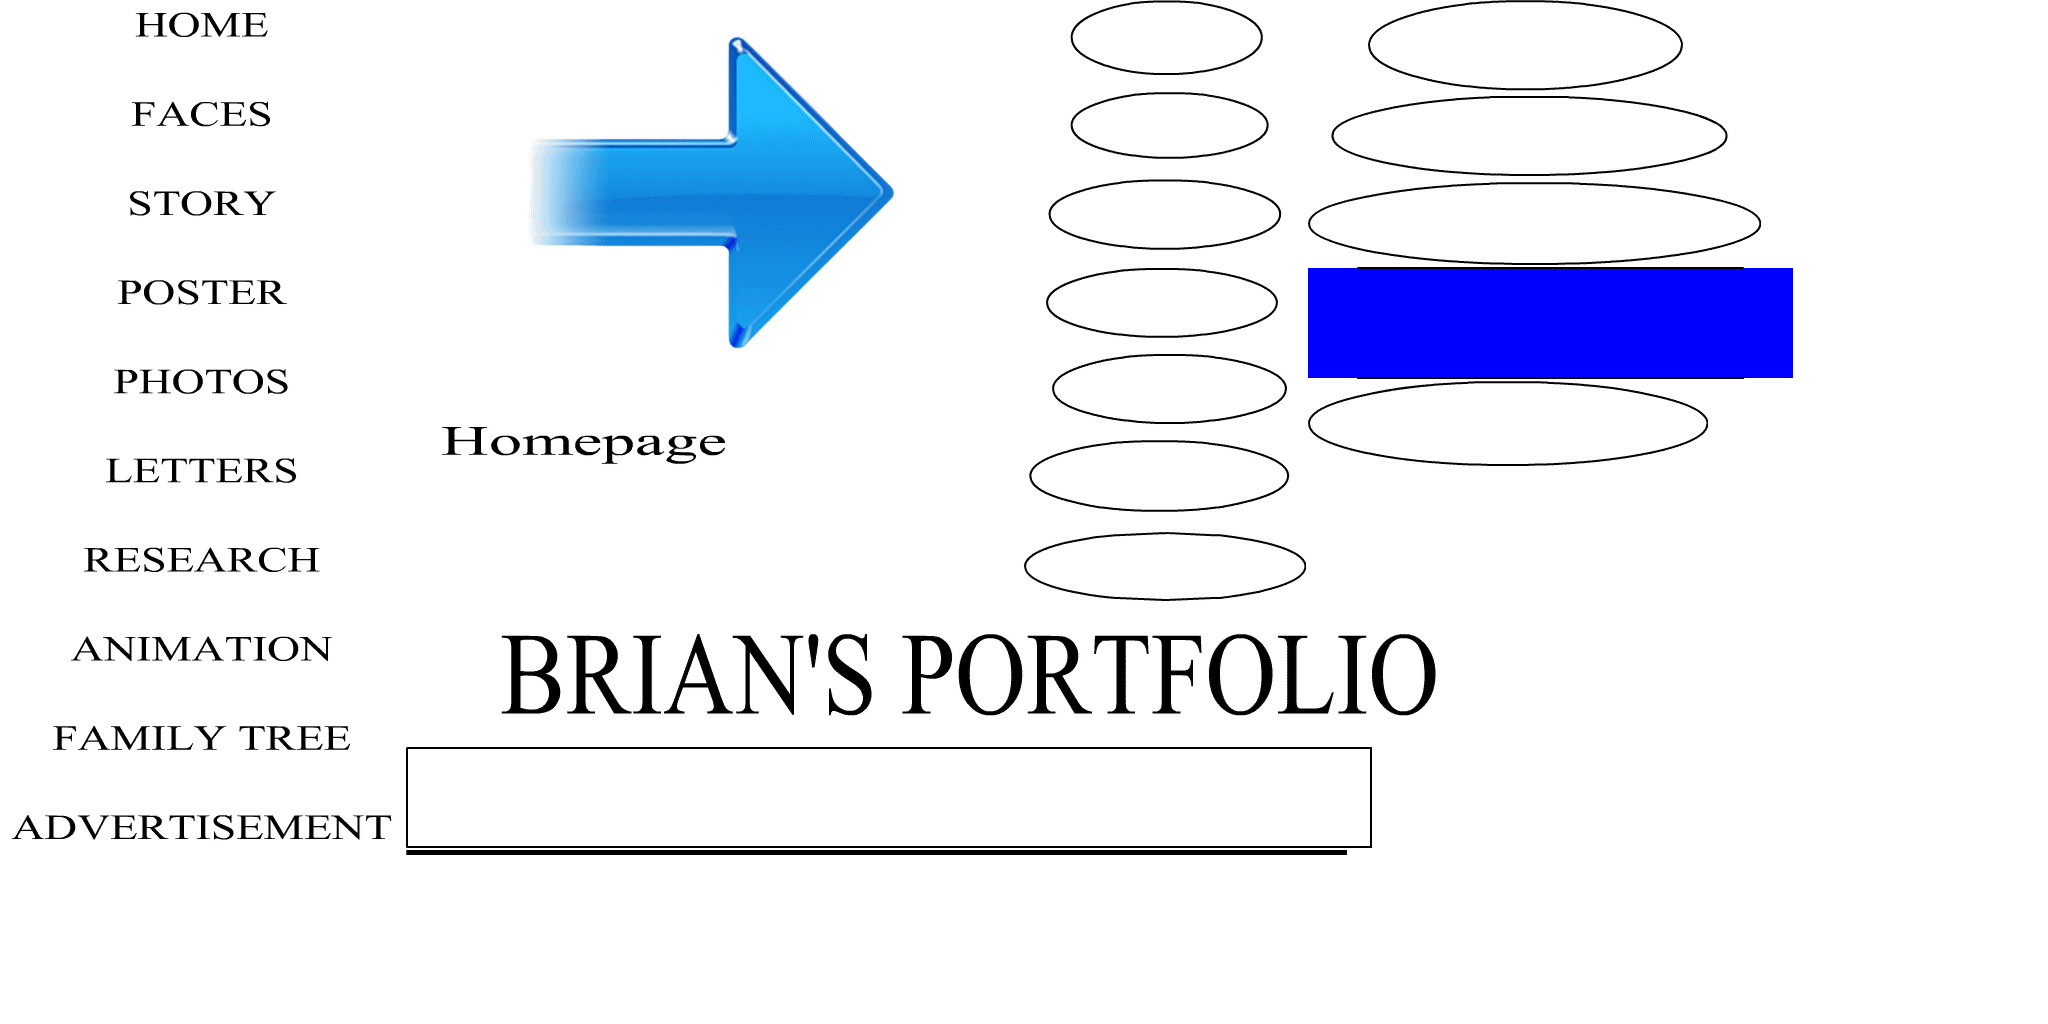
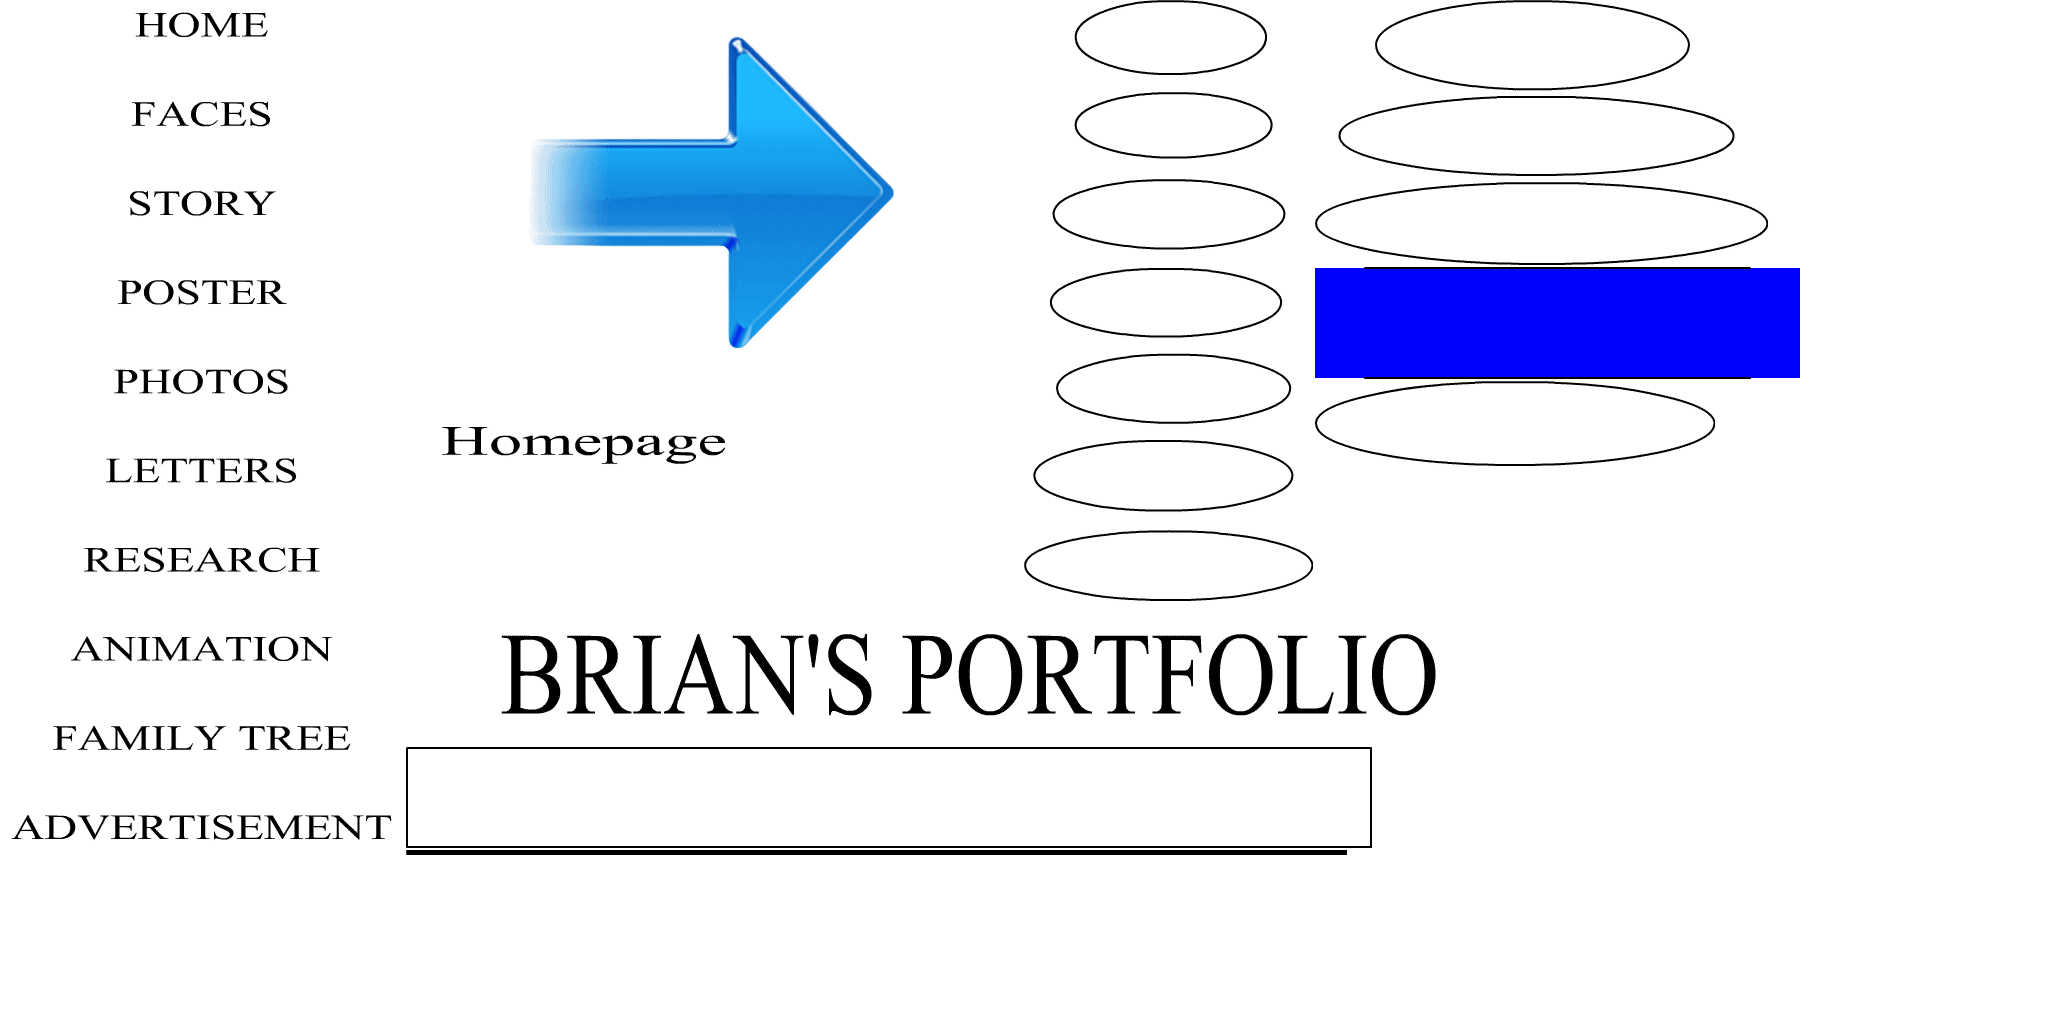
'C'

diff --git a/gd_portfolio/Controller.js b/gd_portfolio/Controller.js
@@ -4,7 +4,7 @@ var p; // shortcut to reference prototypes
 var lib={};var ss={};var img={};
 lib.ssMetadata = [
 		{name:"Controller_atlas_", frames: [[0,0,1920,1200]]},
-		{name:"Controller_atlas_2", frames: [[1308,267,485,112],[406,747,966,101],[406,603,1128,142],[406,850,941,5],[1024,0,282,601],[1308,381,400,85],[406,407,356,68],[0,0,404,852],[1308,0,453,265],[406,0,616,405]]}
+		{name:"Controller_atlas_2", frames: [[1315,267,485,112],[406,747,966,101],[406,603,1128,142],[406,850,941,5],[1024,0,289,601],[1315,381,400,85],[406,407,356,68],[0,0,404,852],[1315,0,453,265],[406,0,616,405]]}
 ];
 
 
@@ -325,7 +325,7 @@ p.nominalBounds = new cjs.Rectangle(-22,-0.5,264.5,56);
 
 	// txt_btns_bg
 	this.instance_4 = new lib.CachedBmp_5();
-	this.instance_4.setTransform(164.25,204.3,0.5,0.5);
+	this.instance_4.setTransform(162.3,204.3,0.5,0.5);
 
 	this.timeline.addTween(cjs.Tween.get(this.instance_4).wait(1));
 
@@ -363,11 +363,11 @@ lib.properties = {
 	color: "#FFFFFF",
 	opacity: 1.00,
 	manifest: [
-		{src:"images/Controller_atlas_.png?1588635144121", id:"Controller_atlas_"},
-		{src:"images/Controller_atlas_2.png?1588635144121", id:"Controller_atlas_2"},
-		{src:"https://code.jquery.com/jquery-3.4.1.min.js?1588635144149", id:"lib/jquery-3.4.1.min.js"},
-		{src:"components/sdk/anwidget.js?1588635144149", id:"sdk/anwidget.js"},
-		{src:"components/video/src/video.js?1588635144149", id:"an.Video"}
+		{src:"images/Controller_atlas_.png?1588636194617", id:"Controller_atlas_"},
+		{src:"images/Controller_atlas_2.png?1588636194617", id:"Controller_atlas_2"},
+		{src:"https://code.jquery.com/jquery-3.4.1.min.js?1588636194634", id:"lib/jquery-3.4.1.min.js"},
+		{src:"components/sdk/anwidget.js?1588636194634", id:"sdk/anwidget.js"},
+		{src:"components/video/src/video.js?1588636194634", id:"an.Video"}
 	],
 	preloads: []
 };

diff --git a/gd_portfolio/Controller.html b/gd_portfolio/Controller.html
@@ -14,7 +14,7 @@
 <title>Controller</title>
 <!-- write your code here -->
 <script src="https://code.createjs.com/1.0.0/createjs.min.js"></script>
-<script src="Controller.js?1588635144213"></script>
+<script src="Controller.js?1588636194656"></script>
 <script>
 var canvas, stage, exportRoot, anim_container, dom_overlay_container, fnStartAnimation;
 function init() {
